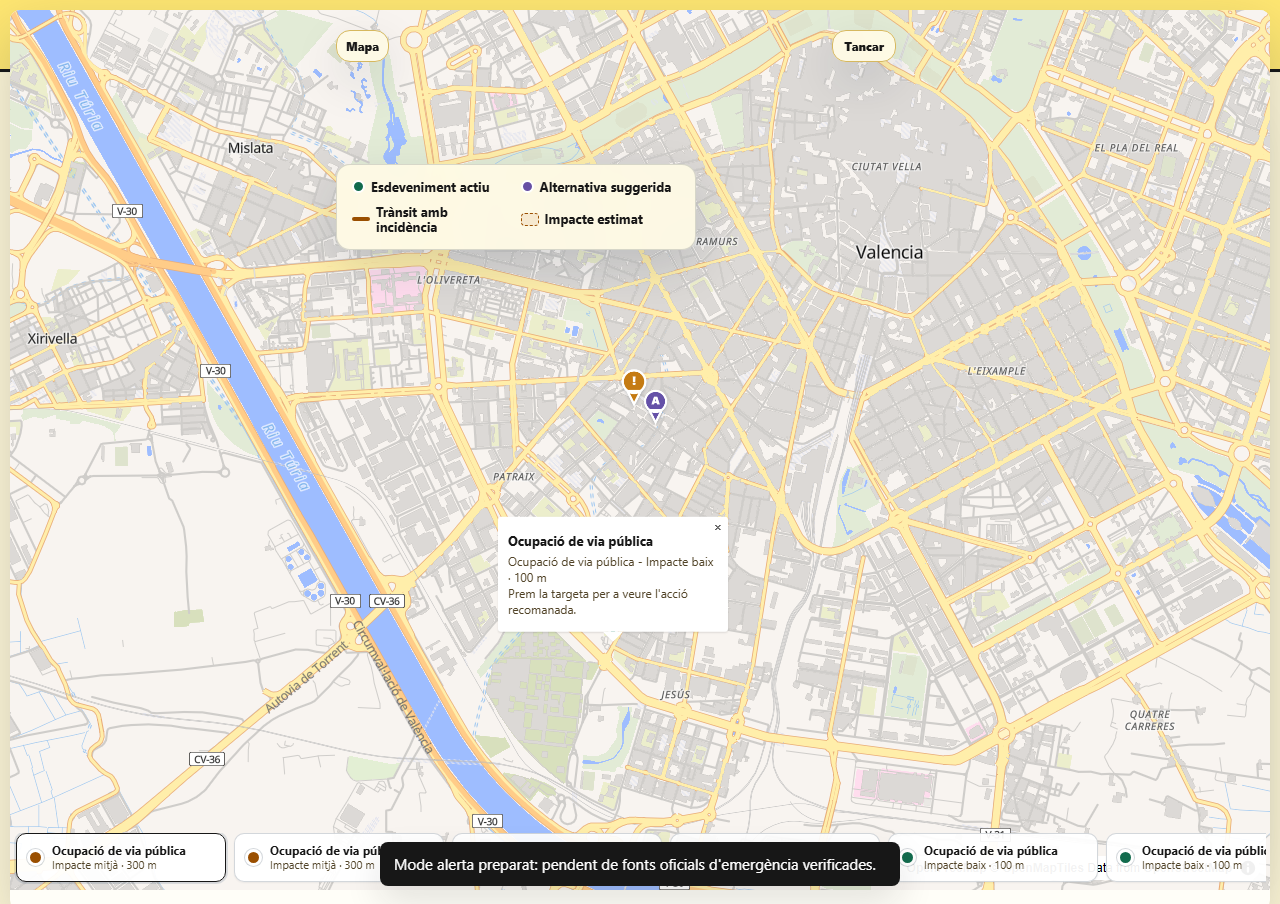
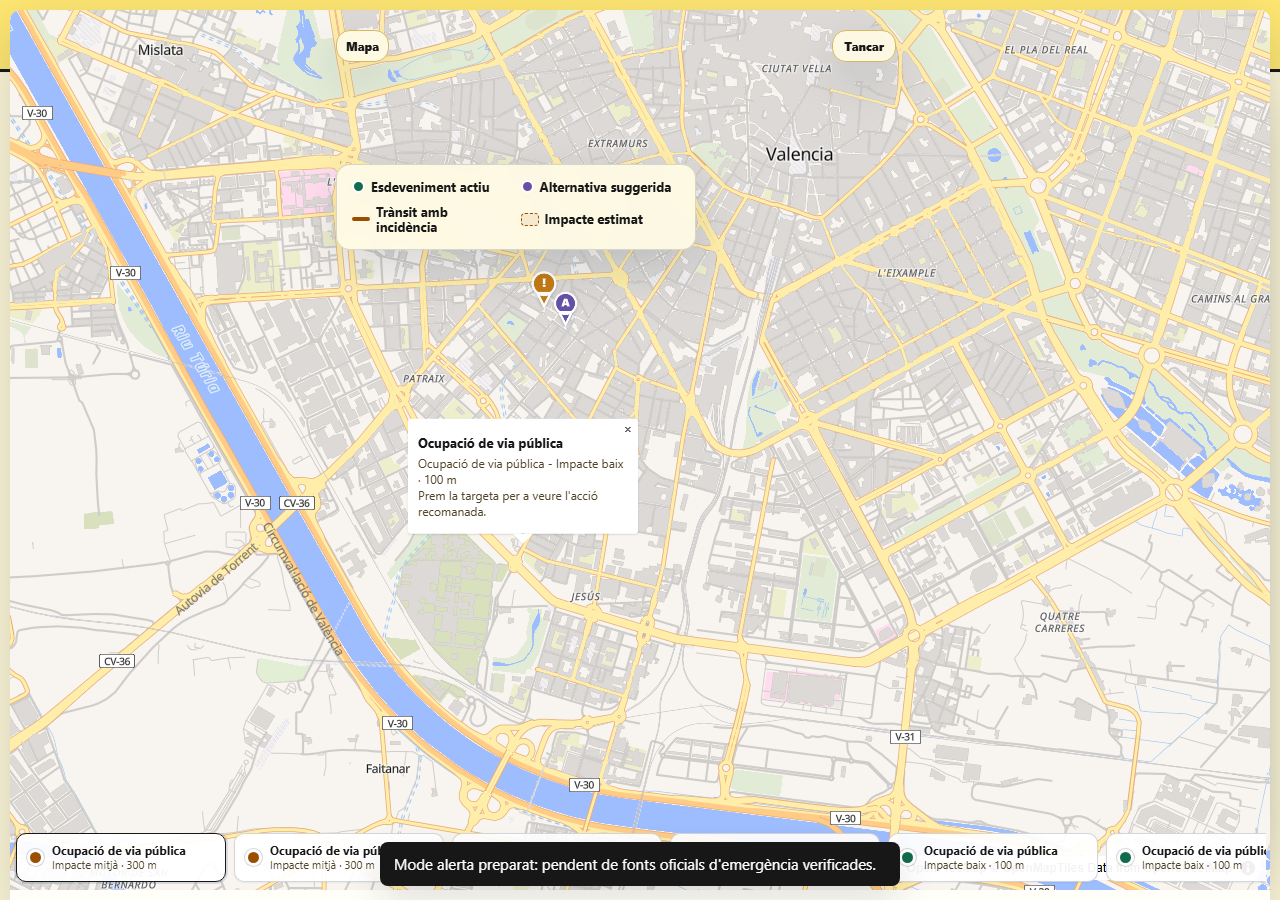
Add urban pulse and source quality signals

diff --git a/src/frontend/assets/app.js b/src/frontend/assets/app.js
@@ -750,7 +750,12 @@ function selectCard(index, options = {}) {
   const card = state.visibleCards[state.selectedCardIndex];
   renderSelectedEvent(card);
   if (options.flyTo !== false && state.map && card?.event?.center) {
-    state.map.flyTo({ center: card.event.center, zoom: 14, essential: false });
+    state.map.flyTo({
+      center: card.event.center,
+      zoom: 14,
+      offset: mapSelectionOffset(),
+      essential: false,
+    });
   }
 }
 
@@ -775,6 +780,7 @@ function renderSelectedEvent(card) {
   const adminLink = adminUrl
     ? `<a class="detail-link primary-admin-link" href="${adminUrl}" target="_blank" rel="noopener">${escapeHtml(adminLinkLabel)}</a>`
     : "";
+  const adminDeepLink = `<p class="admin-deeplink">${escapeHtml(formatMessage("adminDeepLinkHint", { sourceId: event.source_id || event.id }))}</p>`;
   const impact = impactInfo(event);
   const severityClass = event.severity >= 4 ? " is-high" : "";
   const veracityText = veracityLabel(event);
@@ -817,6 +823,7 @@ function renderSelectedEvent(card) {
     <section class="detail-block">
       <h3>${t("adminActionTitle")}</h3>
       <p>${escapeHtml(actionLabel)}</p>
+      ${adminDeepLink}
       ${adminLink}
     </section>
     <section class="detail-block">
@@ -851,6 +858,16 @@ function displayAlternativeName(alternative, fallback = "") {
     return fallback || labelForPoi(alternative?.poi_type);
   }
   return rawName;
+}
+
+function mapSelectionOffset() {
+  if (window.matchMedia("(min-width: 1180px)").matches) {
+    return [-96, -140];
+  }
+  if (window.matchMedia("(max-width: 719px)").matches) {
+    return [0, -90];
+  }
+  return [0, -70];
 }
 
 function impactInfo(event) {
@@ -924,11 +941,54 @@ function renderEmpty(message) {
   renderSelectedEvent(null);
 }
 
+function cityPulseMetrics() {
+  const visibleEvents = state.visibleCards.length || state.cards.length || state.events.length;
+  const impactRadii = state.visibleCards
+    .map(({ event }) => impactInfo(event).meters)
+    .filter((meters) => Number.isFinite(meters));
+  const affectedStreets = Math.max(visibleEvents, Math.round(impactRadii.reduce((sum, meters) => sum + meters, 0) / 85));
+  const districts = Math.max(1, new Set(state.visibleCards.map(({ event }) => Math.round((event.center?.[0] || 0) * 100))).size);
+  const verifiedEvents = state.visibleCards.filter(({ event }) => event.source && !String(event.source).includes("feedback")).length;
+  const verified = visibleEvents ? Math.round((verifiedEvents / visibleEvents) * 100) : 0;
+  return {
+    affectedStreets,
+    districts,
+    verified: Math.max(verified, verifiedEvents ? 85 : 0),
+  };
+}
+
+function datasetHealthRows() {
+  const eventCount = state.events.length;
+  const trafficCount = state.trafficEvents.length;
+  const noticeCount = 20;
+  return [
+    {
+      level: eventCount ? "good" : "warn",
+      name: t("sourceHealthEventsName"),
+      detail: formatMessage("sourceHealthEventsDetail", { count: eventCount || 0 }),
+      status: eventCount ? t("sourceHealthGood") : t("sourceHealthReview"),
+    },
+    {
+      level: trafficCount ? "good" : "quiet",
+      name: t("sourceHealthTrafficName"),
+      detail: formatMessage("sourceHealthTrafficDetail", { count: trafficCount || 0 }),
+      status: trafficCount ? t("sourceHealthGood") : t("sourceHealthQuiet"),
+    },
+    {
+      level: "review",
+      name: t("sourceHealthNoticesName"),
+      detail: formatMessage("sourceHealthNoticesDetail", { count: noticeCount }),
+      status: t("sourceHealthDeferred"),
+    },
+  ];
+}
+
 function renderInfoPanels() {
   const eventSourceCount = new Set(state.events.map((event) => event.source).filter(Boolean)).size;
   const alternativeTypes = new Set(
     state.cards.map((card) => card.alternative?.poi_type).filter(Boolean),
   ).size;
+  const pulse = cityPulseMetrics();
 
   sourcesPanel.innerHTML = `
     <div class="panel-heading">
@@ -960,6 +1020,20 @@ function renderInfoPanels() {
         </article>
       `).join("")}
     </div>
+    <section class="info-section source-health" aria-label="${t("sourceHealthTitle")}">
+      <h3>${t("sourceHealthTitle")}</h3>
+      <p class="info-copy">${t("sourceHealthIntro")}</p>
+      <div class="health-list">
+        ${datasetHealthRows().map((row) => `
+          <div class="health-row" data-health="${row.level}">
+            <span class="health-led" aria-hidden="true"></span>
+            <strong>${escapeHtml(row.name)}</strong>
+            <span>${escapeHtml(row.detail)}</span>
+            <small>${escapeHtml(row.status)}</small>
+          </div>
+        `).join("")}
+      </div>
+    </section>
     <section class="info-section">
       <h3>${t("derivedDataTitle")}</h3>
       <p class="info-copy">${t("derivedDataText")}</p>
@@ -1004,6 +1078,18 @@ function renderInfoPanels() {
       <p>${t("infoIntro")}</p>
     </div>
     <p class="info-copy">${t("projectPurpose")}</p>
+    <section class="urban-pulse" aria-label="${t("urbanPulseTitle")}">
+      <div>
+        <p class="eyebrow">${t("urbanPulseEyebrow")}</p>
+        <h3>${t("urbanPulseTitle")}</h3>
+        <p>${t("urbanPulseText")}</p>
+      </div>
+      <dl>
+        <div><dt>${t("urbanPulseAffectedStreets")}</dt><dd>${pulse.affectedStreets}</dd></div>
+        <div><dt>${t("urbanPulseDistricts")}</dt><dd>${pulse.districts}</dd></div>
+        <div><dt>${t("urbanPulseVerified")}</dt><dd>${pulse.verified}%</dd></div>
+      </dl>
+    </section>
     <div class="info-metrics">
       <div><strong>663</strong><span>${t("metricEvents")}</span></div>
       <div><strong>13.710</strong><span>${t("metricPois")}</span></div>
@@ -1074,7 +1160,7 @@ function updateMap(cards) {
 
   const selectedCenter = cards[state.selectedCardIndex]?.event?.center || cards[0]?.event?.center;
   if (selectedCenter) {
-    state.map.flyTo({ center: selectedCenter, zoom: 13.4, essential: false });
+    state.map.flyTo({ center: selectedCenter, zoom: 13.4, offset: mapSelectionOffset(), essential: false });
   }
 }
 

diff --git a/src/frontend/assets/app.css b/src/frontend/assets/app.css
@@ -1484,6 +1484,55 @@ body.has-section-tab .info-panel:not([hidden]) {
   white-space: nowrap;
 }
 
+.source-health {
+  padding: 8px 0 2px;
+}
+
+.health-list {
+  display: grid;
+  gap: 0;
+  border-top: 1px solid var(--line);
+}
+
+.health-row {
+  display: grid;
+  grid-template-columns: auto minmax(120px, 0.9fr) minmax(180px, 1.4fr) auto;
+  gap: 10px;
+  align-items: center;
+  padding: 10px 0;
+  border-bottom: 1px solid var(--line);
+}
+
+.health-led {
+  width: 10px;
+  height: 10px;
+  border-radius: 999px;
+  background: var(--green);
+  box-shadow: 0 0 0 4px color-mix(in srgb, var(--green) 16%, transparent);
+}
+
+.health-row[data-health="review"] .health-led {
+  background: var(--orange);
+  box-shadow: 0 0 0 4px color-mix(in srgb, var(--orange) 18%, transparent);
+}
+
+.health-row[data-health="quiet"] .health-led,
+.health-row[data-health="warn"] .health-led {
+  background: var(--muted);
+  box-shadow: 0 0 0 4px rgba(84, 103, 122, 0.14);
+}
+
+.health-row strong,
+.health-row small {
+  color: var(--ink);
+}
+
+.health-row span:not(.health-led),
+.health-row small {
+  color: var(--muted);
+  line-height: 1.35;
+}
+
 .dataset-list {
   display: grid;
   gap: 7px;
@@ -1591,6 +1640,65 @@ body.has-section-tab .info-panel:not([hidden]) {
   border-bottom: 1px solid var(--line);
 }
 
+.urban-pulse {
+  display: grid;
+  grid-template-columns: minmax(0, 1.2fr) minmax(260px, 0.8fr);
+  gap: clamp(18px, 4vw, 42px);
+  align-items: end;
+  padding: 18px 0;
+  border-top: 2px solid var(--ink);
+  border-bottom: 1px solid var(--line);
+}
+
+.urban-pulse h3 {
+  margin: 0;
+  font-size: clamp(22px, 3vw, 38px);
+  line-height: 1.02;
+}
+
+.urban-pulse p {
+  margin: 8px 0 0;
+  color: var(--muted);
+  line-height: 1.55;
+}
+
+.urban-pulse dl {
+  display: grid;
+  gap: 10px;
+  margin: 0;
+}
+
+.urban-pulse dl div {
+  display: grid;
+  grid-template-columns: minmax(0, 1fr) auto;
+  gap: 14px;
+  align-items: baseline;
+  padding: 8px 0;
+  border-bottom: 1px solid var(--line);
+}
+
+.urban-pulse dt {
+  color: var(--muted);
+  font-size: 12px;
+}
+
+.urban-pulse dd {
+  margin: 0;
+  color: var(--ink);
+  font-size: 28px;
+  font-weight: 900;
+  font-variant-numeric: tabular-nums;
+  line-height: 1;
+}
+
+.admin-deeplink {
+  padding: 8px 10px;
+  border-left: 3px solid var(--orange);
+  background: color-mix(in srgb, var(--orange) 9%, transparent);
+  color: var(--ink) !important;
+  font-size: 12px;
+}
+
 .info-metrics div {
   min-width: 110px;
   padding: 0;
@@ -1646,6 +1754,23 @@ body.has-section-tab .info-panel:not([hidden]) {
   box-shadow: var(--shadow);
 }
 
+@media (max-width: 719px) {
+  .urban-pulse,
+  .health-row {
+    grid-template-columns: 1fr;
+  }
+
+  .health-row {
+    gap: 5px;
+  }
+
+  .source-row a {
+    grid-column: 1;
+    grid-row: auto;
+    justify-self: start;
+  }
+}
+
 @media (min-width: 720px) {
   .data-status {
     display: block;
@@ -1684,13 +1809,13 @@ body.has-section-tab .info-panel:not([hidden]) {
     position: relative;
     display: grid;
     grid-template-columns: 310px minmax(0, 1fr) 350px;
-    grid-template-rows: minmax(680px, calc(100vh - 96px));
+    grid-template-rows: minmax(680px, calc(100vh - 72px));
     align-items: stretch;
     gap: 0;
     width: 100%;
     max-width: none;
     min-height: calc(100vh - 72px);
-    padding: 12px 16px 16px;
+    padding: 0;
     overflow: hidden;
   }
 
@@ -1721,7 +1846,7 @@ body.has-section-tab .info-panel:not([hidden]) {
     grid-column: 1;
     grid-row: 1;
     width: 292px;
-    margin-left: 2px;
+    margin-left: 16px;
     scrollbar-width: none;
   }
 
@@ -1933,7 +2058,7 @@ body.has-section-tab .info-panel:not([hidden]) {
   }
 
   .map-canvas {
-    height: calc(100vh - 104px);
+    height: calc(100vh - 72px);
     min-height: 680px;
   }
 

diff --git a/docs/STATUS.md b/docs/STATUS.md
@@ -102,7 +102,7 @@ Ver [`TODO.md`](./TODO.md) para la lista completa y [`NEXT_STEPS.md`](../NEXT_ST
 | Deploy | pendiente de T-23/T-27/T-28 sobre VPS disponible |
 
 ## Última actualización
-- **Fecha:** 2026-05-10 (R-19 claridad de mapa y contenidos)
+- **Fecha:** 2026-05-11 (R-20 pulso urbano y auditoria civica)
 - **Autor:** Codex
 - **Entorno de la sesión ejecutora:** Opencode CLI + Qwen 3.6 sobre Windows — ver `docs/RULES-FOR-AGENTS.md § 10`.
 - **Siguiente revisión prevista:** preparación de VPS/producción si se confirma dominio, SSH y sistema operativo del servidor.
@@ -125,3 +125,4 @@ Ver [`TODO.md`](./TODO.md) para la lista completa y [`NEXT_STEPS.md`](../NEXT_ST
 - **R-17:** navegación integrada en header: `Fuentes`, `Metodología` e `Info` se muestran como pestañas centrales a página completa del área principal, sin mapa ni panel derecho superpuestos. Añadidas tareas T-120 (Valhalla + `exclude_polygons`) y T-121 (Modo Alerta solo con fuentes oficiales verificadas).
 - **R-18:** severidad y diseño operativo: las ocupaciones sin gravedad oficial ya no caen todas a `1`; V-PRO deriva impacto conservador desde superficie y tipo de afección. Reingesta dev tras el cambio: `OCUPACION` queda `1=39`, `2=42`, `3=172`; `TRAFICO` queda `1=410` por estado oficial actual. El frontend pasa a layout flotante sobre mapa, con badges `Impacto`, modo claro/oscuro y paneles menos cuadriculados.
 - **R-19:** claridad de mapa y contenidos: nav de secciones incrustada sin cajas, zonas de impacto limitadas a eventos visibles, tráfico normal no se pinta, leyenda más legible y Fuentes/Metodología/Info pasan a bloques escaneables con separadores/acordeones. Ajuste posterior: pins propios `E`/`A`, filtros de alternativas sin siglas opacas, `Fuentes` sin contador en nav, `Vista resumida` recarga datos, mapa expandido con bandeja compacta de eventos y pestañas informativas centrales.
+- **R-20:** pulso urbano y auditoria civica: `Info` muestra salud operativa agregada, `Fuentes` incorpora semaforo de calidad del portal, accion administrativa explica deep-link once-only futuro y el mapa desktop pasa a tratamiento full-bleed con offset de seleccion para no ocultar el pin bajo la ficha inferior.

diff --git a/docs/MEMORIA.md b/docs/MEMORIA.md
@@ -133,6 +133,9 @@ Las fuentes complementarias oficiales (RSS, agenda municipal, avisos o paginas i
 - **API pública** documentada con OpenAPI/Swagger — cualquier entidad puede construir sobre V-PRO.
 - **Metodología abierta** en `METHODOLOGY.md` con limitaciones y supuestos explícitos.
 - **Centro de recursos para medios:** cada evento puede exportarse como snapshot trazable con fuente, impacto, alternativa y código embebible, facilitando que medios locales lo reutilicen en piezas de periodismo de datos sobre obras, Fallas, maratones o movilidad.
+- **Pulso urbano agregado:** la demo resume calles potencialmente afectadas, zonas con movilidad alterada y porcentaje de datos trazables para ofrecer un titular operativo reutilizable por gestores publicos y medios.
+- **Semaforo de calidad del portal:** la seccion `Fuentes` funciona como auditoria civica amable, diferenciando datasets operativos, fuentes sin incidencia relevante y avisos en validacion diferida antes de pintarlos en el mapa.
+- **Burocracia cero:** la accion administrativa se plantea como deep-link futuro a sede electronica con la incidencia ya referenciada, aplicando el principio once-only: no pedir al ciudadano datos que la administracion ya posee.
 - **Decisiones arquitectónicas** registradas como Architecture Decision Records en `docs/DECISIONS.md` (4 ADRs firmados).
 - **Contribuciones externas bienvenidas** mediante PR según `CONTRIBUTING.md`.
 - **Compromiso de publicación** en el Portal de Datos Abiertos si resulta premiado, conforme a la cláusula 12 de las bases.

diff --git a/CHANGELOG.md b/CHANGELOG.md
@@ -5,6 +5,12 @@ El formato sigue [Keep a Changelog](https://keepachangelog.com/es-ES/1.1.0/) y e
 
 ## [Unreleased]
 
+### Added - Pulso urbano y auditoria civica - 2026-05-11
+- Frontend: `Info` incorpora `Pulso urbano`, un resumen agregado de calles potencialmente afectadas, zonas alteradas y porcentaje de datos trazables.
+- Frontend: `Fuentes` incorpora un semaforo de calidad del portal para distinguir fuentes operativas, fuentes sin incidencia relevante y avisos en validacion diferida.
+- Frontend: la accion administrativa muestra una nota de `Burocracia cero`, explicando como una futura integracion municipal podria pre-referenciar el expediente con el ID de incidencia.
+- Frontend: el mapa gana tratamiento full-bleed en escritorio y la seleccion de eventos aplica offset de camara para mantener el pin visible por encima de la ficha inferior.
+
 ### Changed - Reordenacion operativa de eventos - 2026-05-10
 - Frontend: `Eventos cercanos` pasa al carril derecho como lista operativa compacta; la ficha del evento seleccionado se desplaza al panel inferior sobre el mapa.
 - Frontend: se elimina el CTA visible de Google Maps y el disclaimer asociado; la accion principal queda dentro de VLC PROACTIVA mediante seleccion de evento, snapshot y feedback.

diff --git a/docs/METHODOLOGY.md b/docs/METHODOLOGY.md
@@ -239,5 +239,7 @@ Comando de exportación: `docker compose -f infra/docker-compose.yml exec api sh
 - Datos meteorológicos de AEMET.
 - Datos de calidad del aire.
 - Integración con expedientes administrativos municipales vía sede electrónica.
+- Deep-link administrativo once-only: cuando exista convenio municipal, la accion podria abrir sede electronica con `source_id`, tipo de evento y area afectada ya referenciados.
+- Semaforo de calidad de fuentes: exponer estado operativo, validacion diferida y ausencia de incidencias relevantes como metadato de confianza para ciudadania y medios.
 - Routing open source con Valhalla: usar `impact_zones` como `exclude_polygons` para calcular rutas que eviten cortes cuando el grafo local esté disponible.
 - Perfil peatonal con rutas iluminadas, condicionado a una fuente oficial de alumbrado público y metodología específica para no generar falsa sensación de seguridad.

diff --git a/docs/specs/frontend-vpro.md b/docs/specs/frontend-vpro.md
@@ -24,6 +24,8 @@ Construir una interfaz usable de V-PRO para mobile-first con apariencia de herra
 8. Las tabs `Fuentes`, `Metodologia` e `Info` son paginas internas de ancho completo; no se abren como drawer ni modal para evitar solapes con alertas o detalle.
 9. `Vehiculo y ZBE` orienta por distintivo ambiental y enlaza a la fuente municipal, sin sustituir ordenanza ni señalizacion.
 10. `Exportar snapshot` copia un payload trazable para medios locales, memoria o auditoria.
+11. `Info` muestra un pulso urbano agregado y `Fuentes` expone un semaforo de calidad de datos para convertir la app en herramienta de lectura institucional, no solo consulta puntual.
+12. La accion administrativa explica el modelo once-only/deep-link como evolucion municipal: la incidencia debe viajar con la accion para no pedir al ciudadano datos ya conocidos.
 
 ## Pantalla inicial
 ### Cabecera civica
